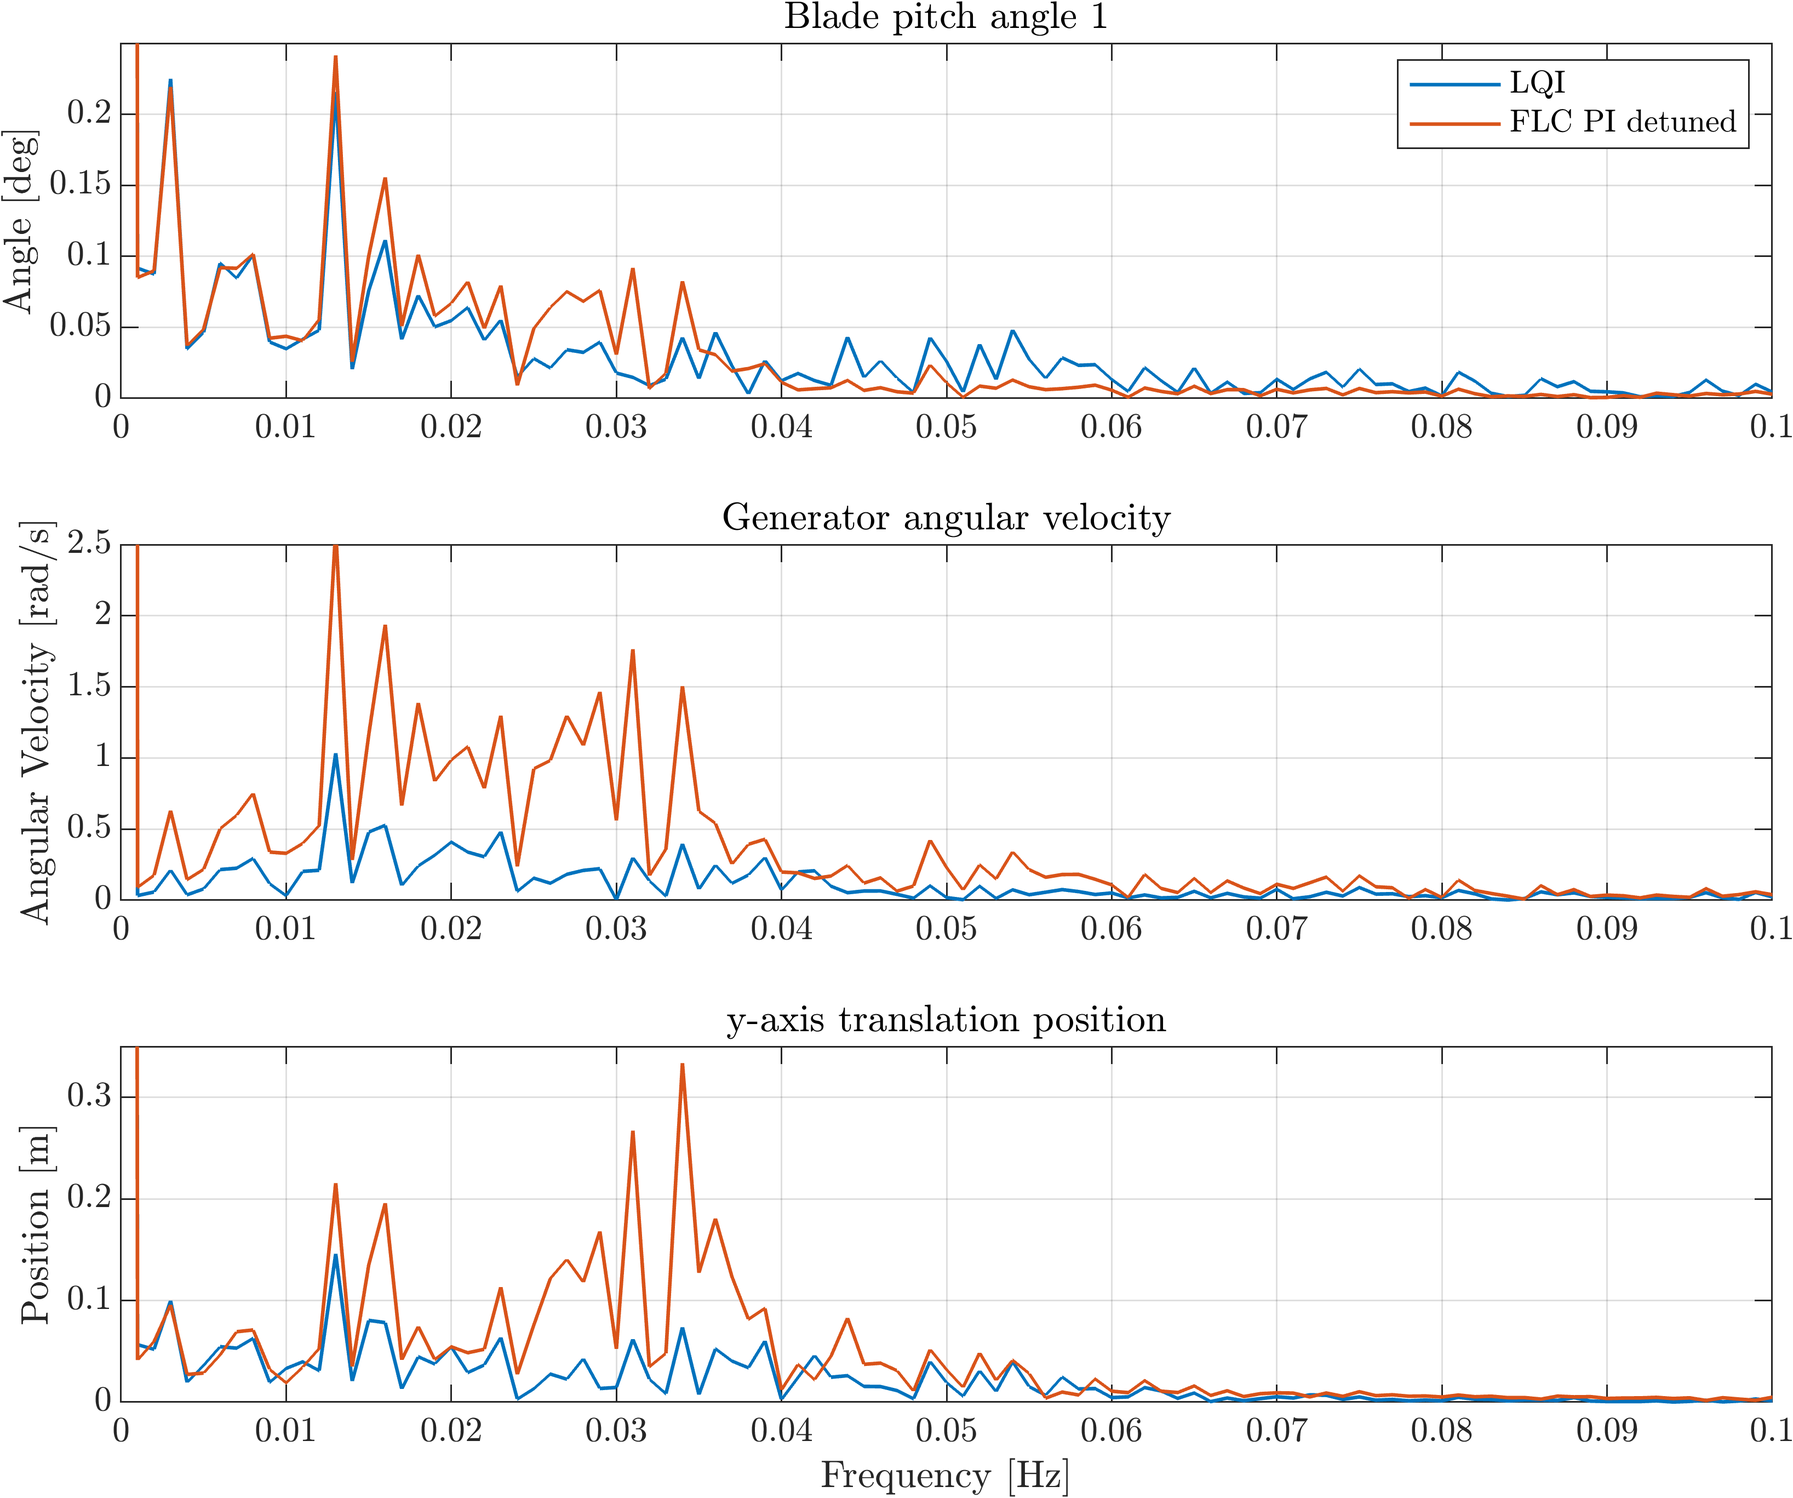
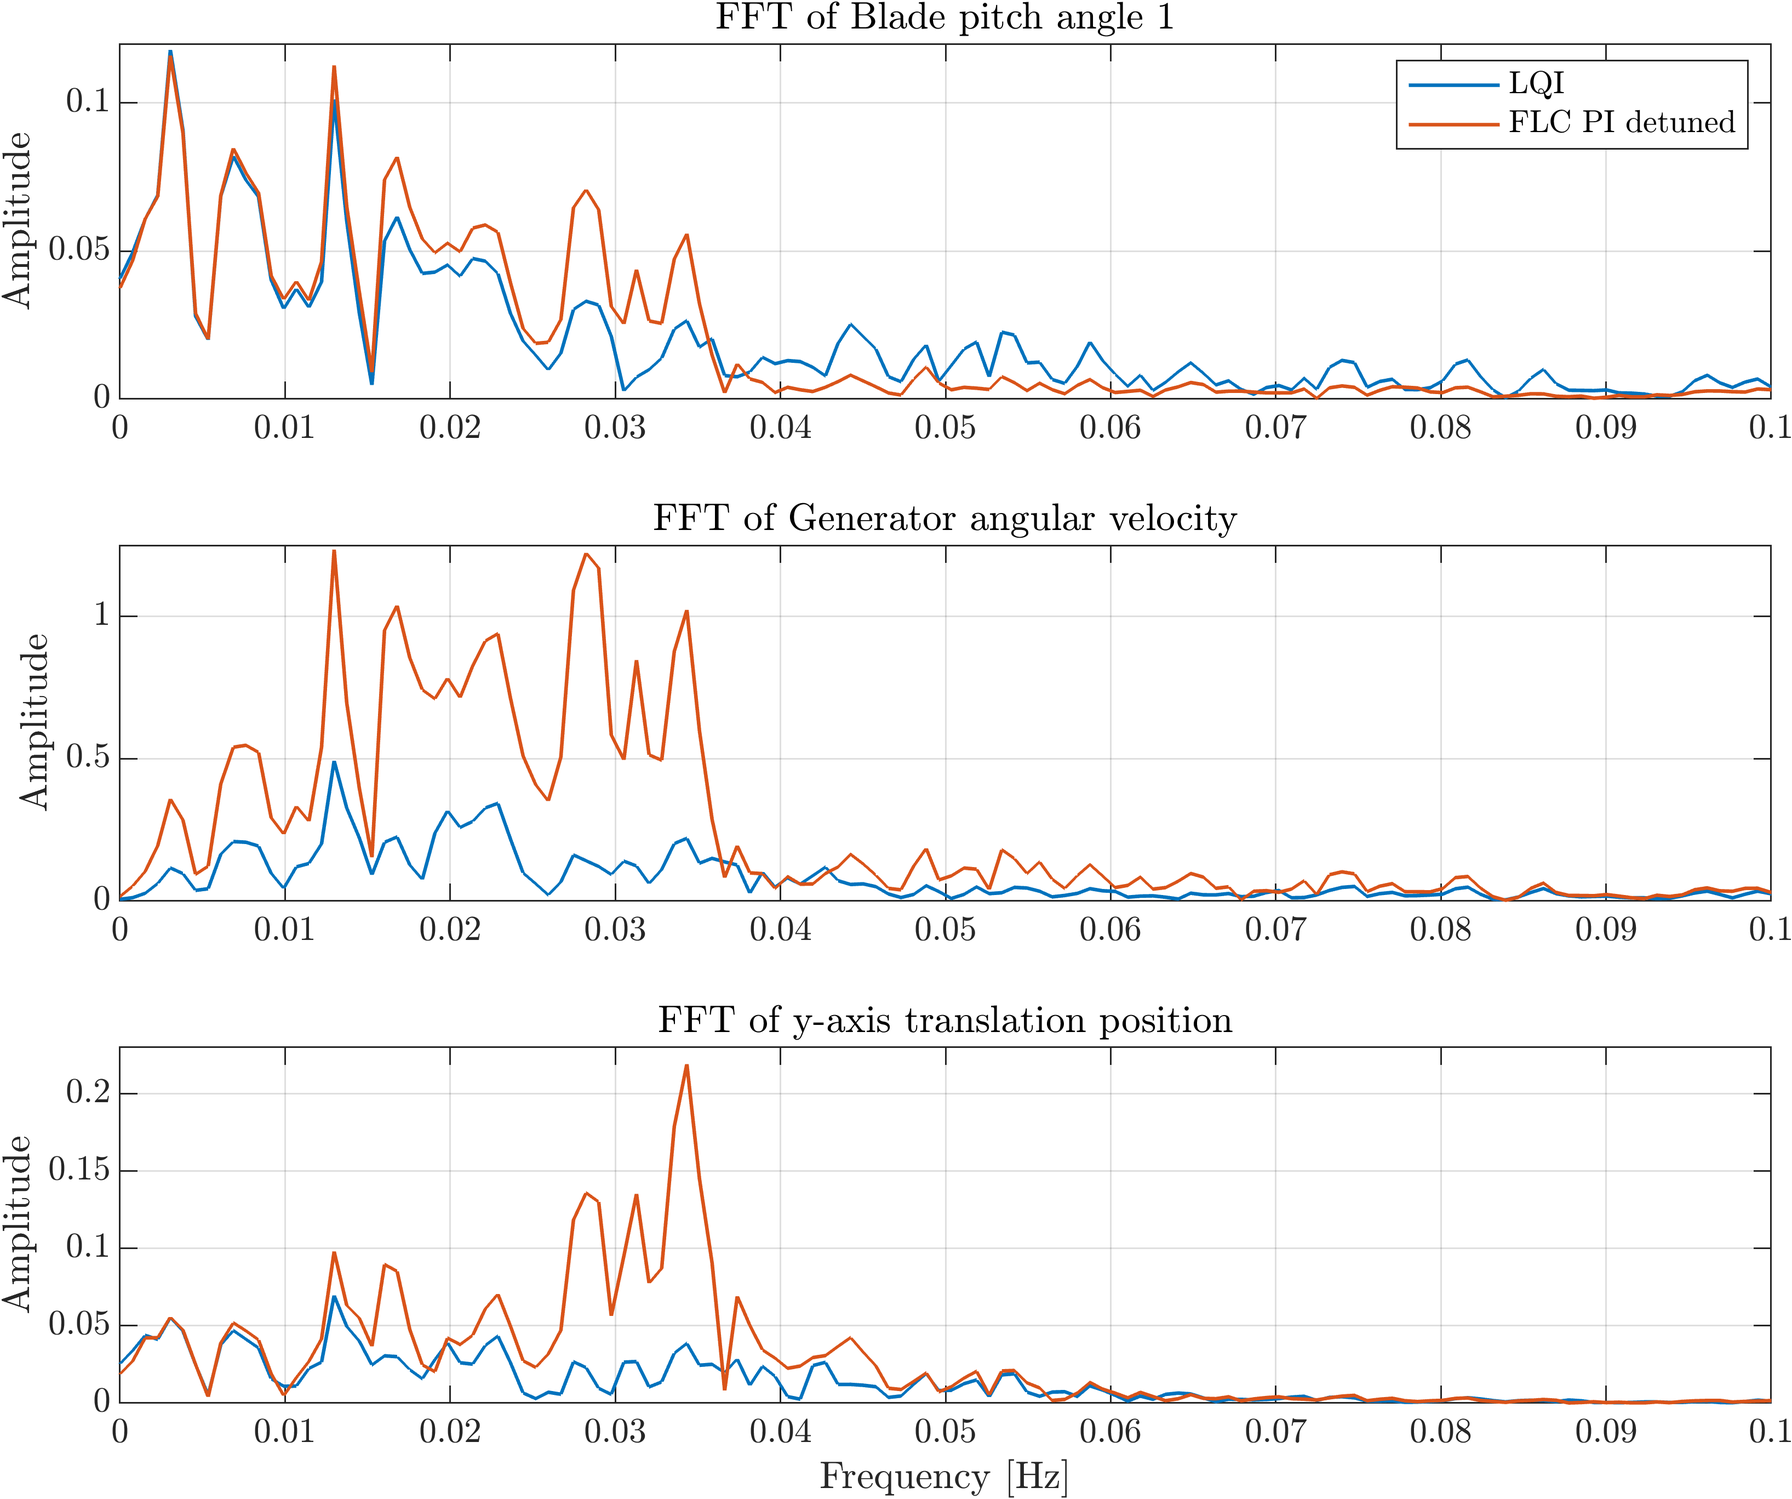
Updated the VTS test plots and added tower bending moment plots as well even though i might not use them. Also small changes throughout the whole report

diff --git a/Chapters/TestRealSys.tex b/Chapters/TestRealSys.tex
@@ -1,8 +1,8 @@
 \section{Test: Vestas Turbine Simulator} \label{sec:test_vts}
-This section presents and discusses the test results of the controller in Vestas Turbine Simulator (VTS). Testing the controller on the linear model gives an indication of the closed-loop system stability and the controller's performance around the OP - if the linear model is accurate. But a wind turbine is a complex system and some dynamics might be either hard to model or not considered and therefore significant deviations between the real system and the linear model are expected. Ultimately the controller's performance on the \textit{real} system is what matters and therefore the test in VTS is performed in much greater detail. The chapter is split into two main parts with the first part comparing the LQI controller with the FLC PI controller without FATD and with a detuned FLC PI controller. In the second part the LQI controller performance at 12 m/s and 26 m/s wind speed is shown with the LQI controller parameters recalculated at said OPs. Performance is compared across the three LQI controller setups at 12 and 26 m/s wind speeds.
+This section presents and discusses the test results of the controller in Vestas Turbine Simulator (VTS). Testing the controller on the linear model gives an indication of the closed-loop system stability and the controller's performance around the OP - if the linear model is accurate. But a wind turbine is a complex system and some dynamics might be either difficult to model or not considered and therefore significant deviations between the real system and the linear model are expected. Ultimately the controller's performance on the \textit{real} system is what matters and therefore the test in VTS is performed in much greater detail. The chapter is split into two main parts with the first part comparing the LQI controller with the FLC PI controller without FATD and with a detuned FLC PI controller. In the second part the LQI controller performance at 12 m/s and 26 m/s wind speed is shown with the LQI controller parameters recalculated at said OPs. Performance is compared across the three LQI controller setups at 12 and 26 m/s wind speeds.
 
 \subsection{Simulation setup and environment}
-The simulations are performed in Vestas Turbine Simulator (VTS) and Matlab is used to extract the VTS output data for plotting of both time-series data and fast Fourier transforms. VTS is Vestas' high-fidelity loads simulation tool and its accuracy is high enough for it to be used for certification of Vestas' turbines. \todo[inline]{Check lige op med Jesper endnu en gang at dette er rigtigt!} The LaC controller environment is modified slightly to achieve the intended LQI controller setup. Namely the fore-aft position and velocity which are input to the controller are changed to the actual states in stead of using the simulated noisy and biased sensor signal. Furthermore the fore-aft position is filtered through a very slow high pass filter to remove the bias such that the deviation from the OP can be approximately simulated.
+The simulations are performed in Vestas Turbine Simulator (VTS) and Matlab is used to extract the VTS output data for plotting of both time-series data and fast Fourier transforms. VTS is Vestas' high-fidelity loads simulation tool and its accuracy is high enough for it to be used for certification of Vestas' turbines. The controller environment developed by the Loads and Control department for VTS is modified slightly to achieve the intended LQI controller setup. Namely the fore-aft position and velocity which are input to the controller are changed to the actual states instead of using the simulated noisy and biased sensor signal. Furthermore the fore-aft position is filtered through a very slow high pass filter to remove the bias such that the deviation from the OP can be approximately simulated.
 
 \smallskip
 Each simulation is 1000 seconds long and is run with a constant mean wind speed with a normal turbulence model which simulates real wind conditions. As mentioned the mean wind speed is 16 m/s in part 1 and both 12 and 26 m/s mean wind speeds are simulated in part 2.
@@ -25,7 +25,7 @@ The performance of the LQI controller is evaluated in a comparison to other rele
 	\label{fig:vts_2_fftazi}
 \end{figure}
 
-\cref{fig:vts_3_th_w_py_vy} contains four subplots: The pitch angle of blade 1, the generator speed, the fore-aft tower top position and the fore-aft tower top velocity. The blade pitch is included to evaluate blade pitch actuation and a lower blade pitch activity is ideal since it results in less mechanical wear. Blade 1 was chosen arbitrarily from the three blades since the relevant pitch actuation behaviour should be the same across the three blades. The generator speed set-point is set at 400 rpm and a lower absolute tracking error is better. The fore-aft (y-axis) tower top position should ideally be constant and therefore the velocity should be zero. It is readily visible that the fixed-bottom tuned FLC PI controller without FATD performs extremely poorly as it amplifies the fore-aft motion extensively in comparison to the detuned FLC. The oscillations are present in the whole system and an obvious conclusion is that it is infeasible to use the fixed-bottom tuned FLC in a real WT. When comparing the VTS simulation results in \cref{fig:vts_3_th_w_py_vy} with the linear model simulation results in \cref{fig:script_vfreeTovy} it is obvious that the system with FLC seems more marginally stable than is apparent from the linear system. The oscillations in VTS are more consistent and seem much less affected by the wind than in the linear model.
+\cref{fig:vts_3_th_w_py_vy} contains four subplots: The pitch angle of blade 1, the generator speed, the fore-aft tower top position and the fore-aft tower top velocity. The blade pitch is included to evaluate blade pitch actuation and a lower blade pitch activity is ideal since it results in less mechanical wear. Blade 1 was chosen arbitrarily from the three blades since the relevant pitch actuation behaviour should be the same across the three blades. The generator speed set-point is set at 400 rpm and a lower absolute tracking error is better. The fore-aft (y-axis) tower top position should ideally be constant and therefore the velocity should be zero. It is readily visible that the fixed-bottom tuned FLC PI controller without FATD performs extremely poorly as it amplifies the fore-aft motion extensively in comparison to the detuned FLC. The oscillations are present in the whole system and an obvious conclusion is that it is infeasible to use the fixed-bottom tuned FLC in a real WT. When comparing the VTS simulation results in \cref{fig:vts_3_th_w_py_vy} with the linear model simulation results in \cref{fig:script_vfreeTovy} it is obvious that the system with FLC is either marginally stable or closer to being marginally stable than is apparent from the linear system. The oscillations in VTS are more consistent and seem much less affected by the wind than in the linear model.
 
 The detuned FLC and the LQI controller perform much better with greatly reduced fore-aft motion. When observing the fft of the fore-aft velocity in \cref{fig:vts_4_fft_py} the eigenfrequency of the floater is readily visible at around 0.035 Hz.
 
@@ -75,9 +75,9 @@ When looking at \cref{fig:vts_12_zoom_th_w_py_vy} the fore-aft velocity oscillat
 
 \clearpage
 \subsection{Results: 12, 16 and 26 m/s LQI OP performance} \label{sec:test_vts_part2}
-It is of interest to see whether using the controller at other OPs yield a better performance at the other respective OPs despite not further tuning the LQI weights. Only a single convenient OP has been considered in the project so far since gain scheduling has been deemed out of scope. But recalculating the LQI controller gains for a different OP using the Vestas wtLin tool is convenient and therefore some results of the controller performance at other OPs are included. The LQI $ Q $ and $ R $ weights are not tuned for the other OPs but are left at the values which yielded the best performance at 16 m/s.
+It is of interest to see whether using the controller at other OPs yield a better performance at the other respective OPs despite not further tuning the LQI weights. Only a single convenient OP has been considered in the project so far since gain scheduling has been deemed out of scope. But redefining the linear model at other OPs using the Vestas wtLin tool is straightforward. Therefore new LQI controller parameters can be obtained for other OPs and some results of the controller performance at other OPs are thus included. The LQI $ Q $ and $ R $ weights are not tuned for the other OPs but are left at the values which yielded the best performance at 16 m/s.
 
-As mentioned the new wind speeds are 12 m/s and 26 m/s. Due to the larger rotor thrust sensitivity around nominal wind speed which can be observed in \cref{fig:thrust_vs_windspeed} lower dampening is expected for the 12 m/s simulations. The WT controller will furthermore change between PLC and FLC as the wind speed observed by the rotor goes above and below the nominal wind speed. This is expected to lower dampening and worsen overall performance. At higher wind the rotor thrust sensitivity decreases and thus greater general dampening and better performance is expected at 26 m/s.
+As mentioned the other wind speeds are 12 m/s and 26 m/s. Due to the larger rotor thrust sensitivity around nominal wind speed which can be observed in \cref{fig:thrust_vs_windspeed} lower dampening is expected for the 12 m/s simulations. The WT controller will furthermore change between PLC and FLC as the wind speed observed by the rotor goes above and below the nominal wind speed. This is expected to lower dampening and worsen overall performance. At higher wind the rotor thrust sensitivity decreases and thus greater general dampening and better performance is expected at 26 m/s.
 \begin{figure}[ht]
 	\centering
 	\includegraphics[width=0.7\linewidth]{Graphics/TestResults/VTSplotting/20_pow_th_w_py_vy.png}

diff --git a/Chapters/Introduction.tex b/Chapters/Introduction.tex
@@ -6,7 +6,7 @@ This first chapter gives a general introduction to the wind turbine including bo
 The global average temperature of the earth is rising mainly attributed to the greenhouse effect caused primarily by carbon dioxide (CO2) emissions. The consequences of these temperature changes are aplenty and the more obvious signs of change are already starting to show. Record high temperatures, droughts, storms, floods and other extreme weather conditions and events are becoming more and more frequent. The main contributor of human CO2 emissions is the energy section which represents 76\% of emissions with 42\% resulting from electric energy production \cite{wri2018}. The energy demand on a global scale is still steadily increasing. Due to COVID-19 an unprecedented drop in energy use and CO2 emissions were observed in 2020. But primary energy demand increased again in 2021 by 5.8 \% which was 1.3 \% higher than in 2019 \cite{bp2022}. Fossil fuel still makes up 82 \% of the primary energy use in 2021 \cite{bp2022}. A transition from fossil energies to renewable energy sources is one of the most efficient remedies to lower CO2 emissions and solar and wind energy are widely accepted as some of the best green energy alternatives. Wind and solar reached a 10.2\% share of power generation in 2021 \cite{bp2022}. As of 2021 236 GW of wind power capacity is installed in Europe with 12\% being offshore. 17 GW was installed in 2021 alone with a 19 \% share being offshore wind\cite{Sesto1992}.
 
 \smallskip
-Despite the higher levelized cost of energy (LCOE) of offshore wind turbines (WTs) compared to the onshore counterpart the trend towards offshore wind is increasing. There are sensible reasons for this. Offshore wind is on average 20\% higher than onshore. Turbulence is also less due to the lack of obstacles at sea which could potentially extend the expected WT lifetime \cite{Christiansen2013}. Furthermore wind farms at sea do not have the same clearance issues with regards to minimum distance from urban areas and houses. As a result visual and noise annoyances are also decreased. Issues with regards to offshore WTs is the shallow water debt requirement of most types of foundations. Above 50 meters water debt \textit{fixed-bottom} offshore WTs start to become economically infeasible \cite{Lefebvre2012}. Shallow water debt sites will also eventually exhaust and it will become a necessity to install WTs at deeper waters. This is where the floating offshore wind turbine (FOWT) comes into play. Floating turbines have mainly been a research subject in the prototype stage since the first Blue H Technologies FOWT was started up in 2007. It was a prototype installed to gather test data on wind and sea conditions and it was decommissioned at the end of 2008. Despite not having reached full commercial feasibility yet, the FOWT park scale is increasing. Kincardine, the largest floating WT project, was commissioned in 2021 off the coast of Scotland in 60-80 meter waters. The project features 5 Vestas V164-9.5 MW and one V80-2 MW turbine with a combined nominal output of 48 megawatts (MW). Before further exploring FOWTs basic WT functionality is defined.
+Despite the higher levelized cost of energy (LCOE) of offshore wind turbines (WTs) compared to the onshore counterpart the trend towards offshore wind is increasing. There are sensible reasons for this. Offshore wind speeds are on average 20\% higher than onshore. Turbulence is also less due to the lack of obstacles at sea which could potentially extend the expected WT lifetime \cite{Christiansen2013}. Furthermore wind farms at sea do not have the same clearance issues with regards to minimum distance from urban areas and houses. As a result visual and noise annoyances are also decreased. Issues with regards to offshore WTs is the shallow water debt requirement of most types of foundations. Above 50 meters water debt \textit{fixed-bottom} offshore WTs start to become economically infeasible \cite{Lefebvre2012}. Shallow water debt sites will also eventually exhaust and it will become a necessity to install WTs at deeper waters. This is where the floating offshore wind turbine (FOWT) comes into play. Floating turbines have mainly been a research subject in the prototype stage since the first Blue H Technologies FOWT was started up in 2007. It was a prototype installed to gather test data on wind and sea conditions and it was decommissioned at the end of 2008. Despite not having reached full commercial feasibility yet, the FOWT park scale is increasing. Kincardine, the largest floating WT project, was commissioned in 2021 off the coast of Scotland in 60-80 meter waters. The project features 5 Vestas V164-9.5 MW and one V80-2 MW turbine with a combined nominal output of 48 megawatts (MW). Now before moving on to exploring the basics of FOWTs the basic WT functionality is presently defined.
 
 
 \subsection{Components and operation of a wind turbine} \label{sec:intro_wtcomponents}

diff --git a/Chapters/TheoreticalBackground.tex b/Chapters/TheoreticalBackground.tex
@@ -226,7 +226,7 @@ In \cref{fig:eigen_and_1p3p} an illustration of the tower modes of both fixed-bo
 
 \clearpage \newpage
 \subsection{FOWT challenges and control} \label{sec:theory_fowt_challenges}
-This section concerns the challenges that are prevalent in FOWT design and control. In the introduction of the FOWT in \cref{sec:intro_theFOWT} a specific issue; the negative dampening problem, was briefly described. This phenomena is further explored here and other relevant challenges are furthermore touched upon. Furthermore a few solutions to the negative dampening problem are briefly explained.
+This section is concerned with the challenges that are prevalent in FOWT design and control. In the introduction of the FOWT in \cref{sec:intro_theFOWT} a specific issue; the negative dampening problem, was briefly described. This phenomena is further explored here and other relevant challenges are furthermore touched upon. Lastly a few solutions to the negative dampening problem are briefly presented.
 
 \smallskip
 To get a better understanding of the negative damping problem \cref{fig:thrust_vs_windspeed} is considered. It shows the relationship between wind speed and rotor thrust during operation where the turbine controller is active. The specific curve is from the IEA 15 MW reference wind turbine which is the subject of discussion in \cite{Vanelli2021}. The general shape of the curve is not turbine specific for modern turbines. The curve is a product of the relationship between pitch angle, wind speed and rotor speed which is regulated by the WT controller:

diff --git a/Chapters/Conclusion.tex b/Chapters/Conclusion.tex
@@ -1,26 +1,26 @@
 \section{Conclusion} \label{sec:concl}
 
-%\textbf{THE GOOD}
+\textbf{THE GOOD}
 
-%\begin{itemize}
-%\item Good thing #1
-%\item Good thing #2
+\begin{itemize}
+	\item Good thing 1
+	\item Good thing #2
+\end{itemize}
 
-%\noindent \textbf{THE BAD}
+\noindent \textbf{THE BAD}
 
-%\begin{itemize}
-%	\item Bad thing #1
+\begin{itemize}
+	\item The LQI implementation in VTS requires \textit{real} states of py and vy
+\end{itemize}
 
-%\end{itemize}
+\noindent \textbf{THE GOOD \#2}
 
-%\noindent \textbf{THE GOOD \#2}
+\begin{itemize}
+	\item Good thing 1
+\end{itemize}
 
-%\begin{itemize}
-%	\item Good thing #1
-%\end{itemize}
-
-%\textbf{Conclusion text:} \\
-% The underlying physics of a trailer refrigeration system are complex, as several components of the system require extensive modeling to accurately represent reality. xxx
+\textbf{Conclusion text:}
+ The underlying physics of a trailer refrigeration system are complex, as several components of the system require extensive modeling to accurately represent reality. xxx
 
 
 
